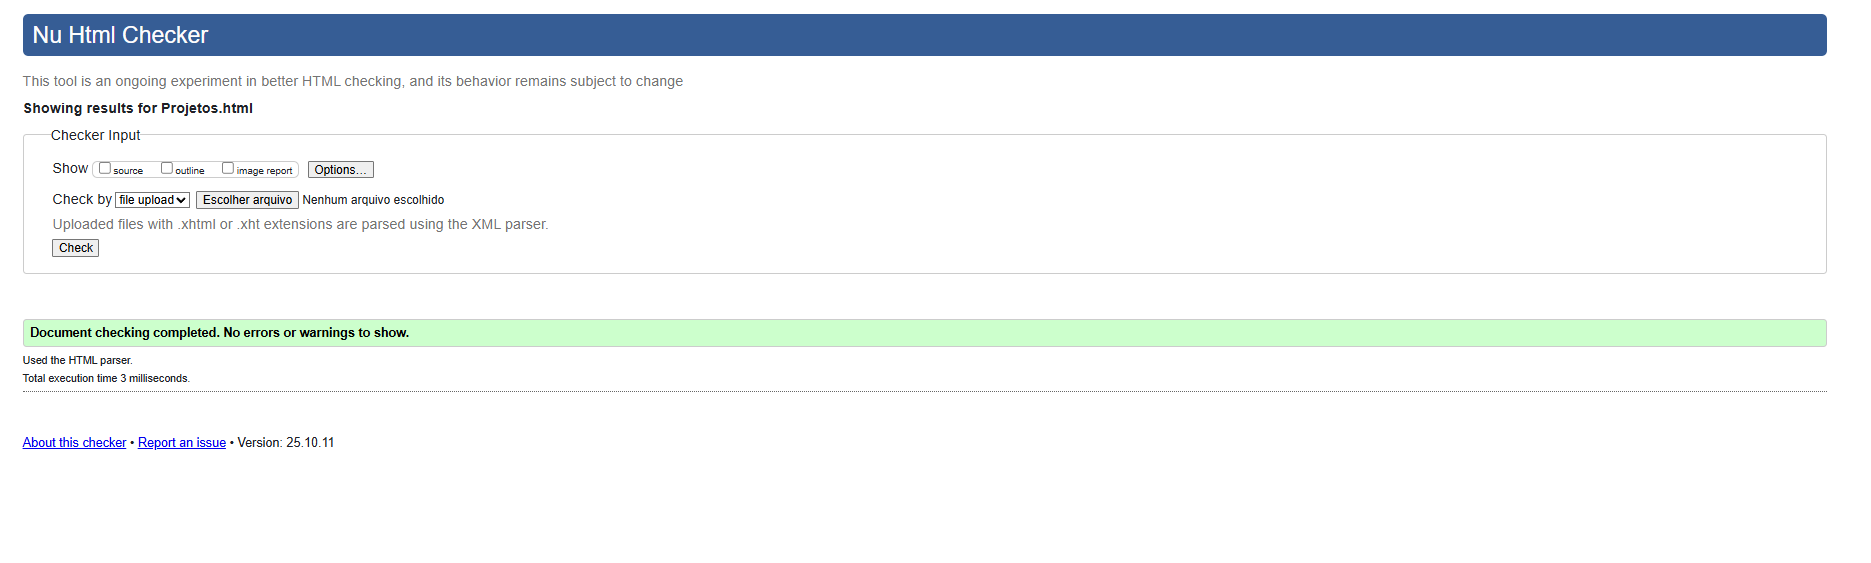
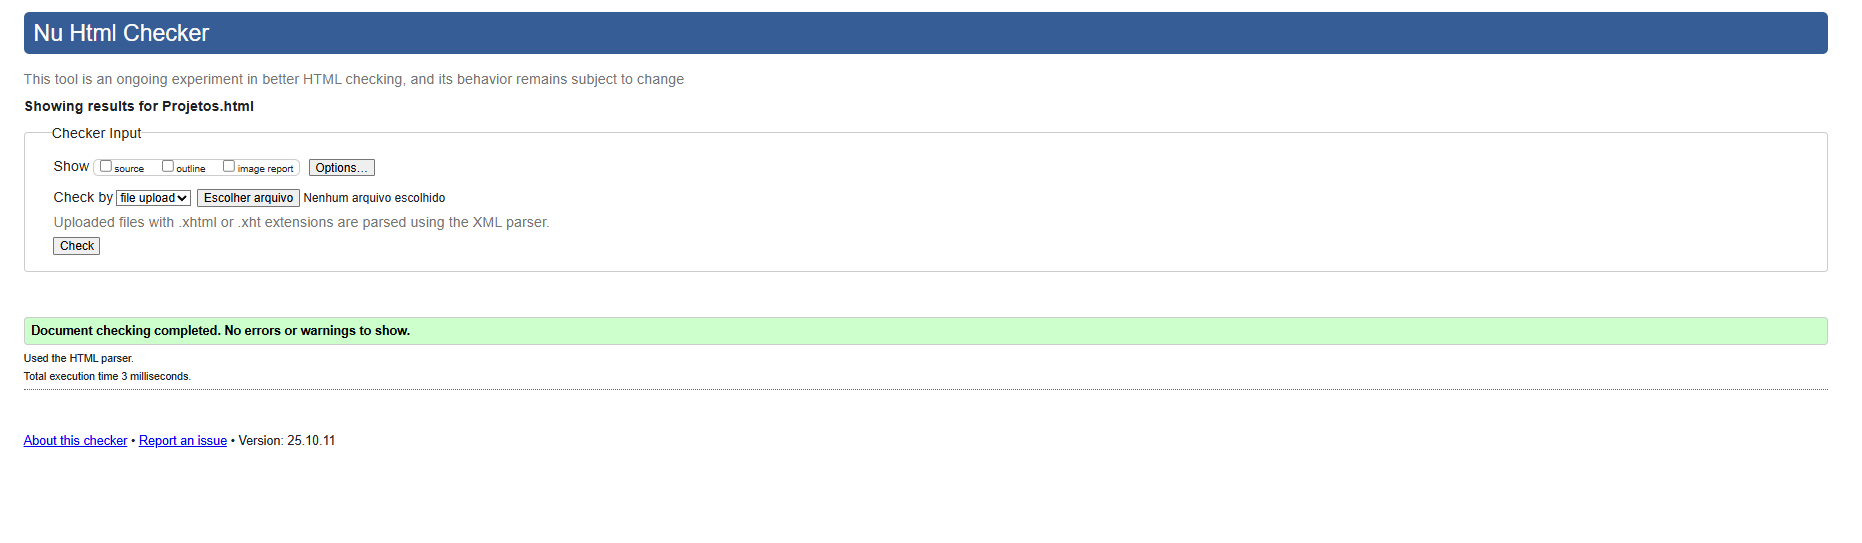
Atualizado

diff --git a/assets/Projetos.html b/assets/Projetos.html
@@ -2,10 +2,10 @@
 <html lang="pt-br">
 <head>
   <meta charset="UTF-8">
-  <title>ONG Aumigos! | Início</title>
+  <title>ONG Aumigos! | Projetos</title>
   <meta name="viewport" content="width=device-width, initial-scale=1.0">
-  <meta name="description" content="Conheça a ONG Aumigos!, missão, visão, valores e oportunidades de engajamento.">
-  <link rel="stylesheet" href="../assets/css/estilo.css">
+  <meta name="description" content="Conheça os projetos sociais, voluntariado e ações da ONG Aumigos!.">
+  <link rel="stylesheet" href="../css/estilo.css">
 </head>
 <body>
   <header>
@@ -17,30 +17,25 @@
       </ul>
     </nav>
     <img src="../assets/images/logo-ong-aumigos.png" alt="Logo ONG Aumigos!" width="150">
-    <h1>ONG Aumigos!</h1>
+    <h1>Projetos Sociais</h1>
   </header>
   <main>
     <section>
-      <h2>Missão</h2>
-      <p>Promover o bem-estar integral de animais e pessoas, fortalecendo vínculos de empatia e solidariedade por meio de projetos sociais inovadores, inclusivos e sustentáveis, que transformam vidas e comunidades.</p>
-      <h2>Visão</h2>
-      <p>Tornar-se a principal referência nacional em proteção animal e transformação social, promovendo educação sustentável e engajamento comunitário que inspirem mudanças duradouras no respeito à vida.</p>
-      <h2>Valores</h2>
-      <ul>
-        <li>Transparência</li>
-        <li>Empatia</li>
-        <li>Solidariedade</li>
-        <li>Respeito à vida</li>
-      </ul>
-      <img src="../assets/images/equipe.jpg" alt="Equipe da ONG Aumigos!">
+      <h2>Projeto Patas Solidárias</h2>
+      <p>Resgata e promove a adoção responsável de animais em situação de abandono.</p>
+      <img src="../assets/images/projeto-patas.jpg" alt="Resgate animal realizado pela ONG Aumigos!">
     </section>
     <section>
-      <h2>Contato</h2>
-      <ul>
-        <li>Telefone: (15) 99123-9952</li>
-        <li>E-mail: contato@ongaumigos.org</li>
-        <li>Endereço: Rua Rafaela Camargo, 123, Centro — Votorantim/SP</li>
-      </ul>
+      <h2>Projeto Educação com Patas</h2>
+      <p>Leva palestras sobre respeito e responsabilidade aos lares e escolas.</p>
+      <img src="../assets/images/projeto-educacao.jpg" alt="Palestra educativa promovida pela ONG Aumigos!">
+    </section>
+    <section>
+      <h2>Como ser voluntário</h2>
+      <p>Basta preencher nosso <a href="cadastro.html">formulário de cadastro</a> e contribuir nos projetos.</p>
+      <h2>Como doar</h2>
+      <p>Faça uma doação via conta bancária ou pelo Pix e ajude a salvar vidas!</p>
+      <video controls src="../assets/images/video-animais.mp4"></video>
     </section>
   </main>
   <footer>
